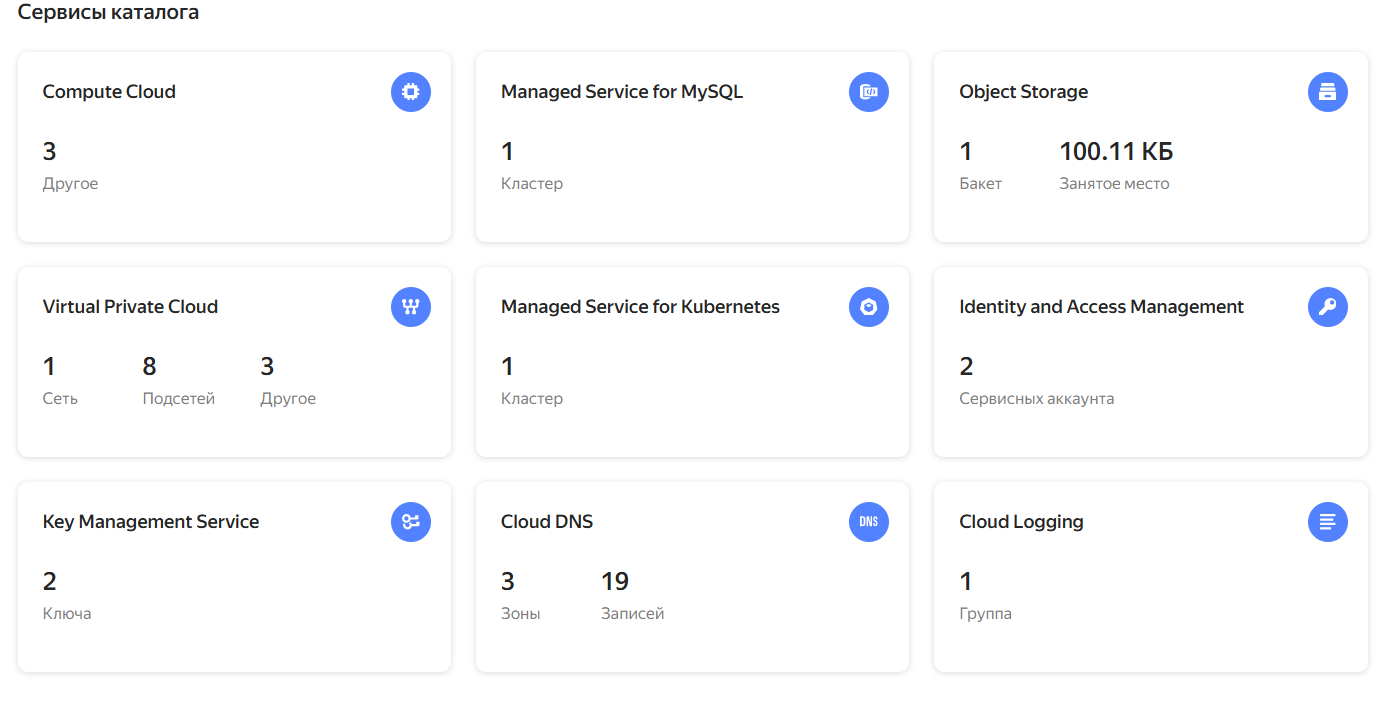
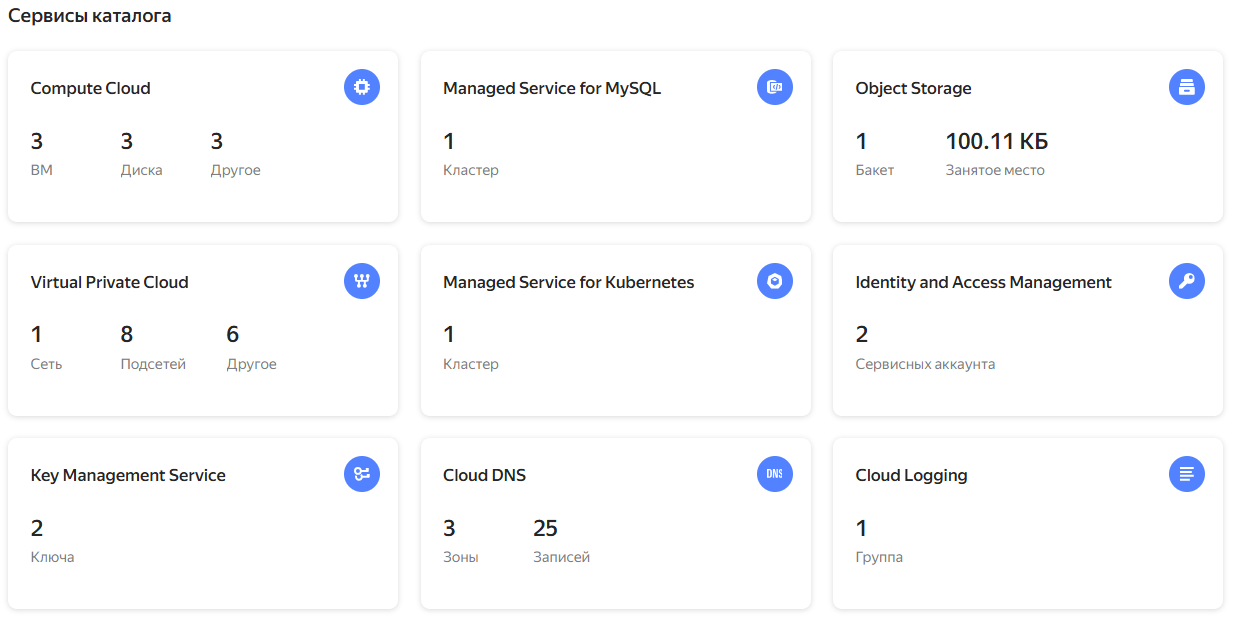
дополнение описания 8-cloudproviders-4-cluster

diff --git a/8-cloudproviders-4-cluster/readme.md b/8-cloudproviders-4-cluster/readme.md
@@ -67,7 +67,17 @@ __Результаты:__
           
           - сам кластер [`regional_cluster`](terraform/main.tf#L214) с именем `k8s-regional-cluster` с 3-мя мастерами во всех зонах доступности в подсетях `public`
 
-          - 3 группы узлов [`node_group`](terraform/main.tf#L260) в каждой зоне доступности с 1 узлом и динамическим масштабированием до 2-х узлов в каждой группе
+          - 3 группы узлов [`node_group`](terraform/main.tf#L261) в каждой зоне доступности с 1 узлом и динамическим масштабированием до 2-х узлов в каждой группе
+
+      4. Настройка kubectl
+
+          - создание конфигурационного файла [`kubeconfig`](terraform/main.tf#L315) с именем `kubeconfig.yaml` на основе шаблона [kubernetes/kubeconfig.tpl](kubernetes/kubeconfig.tpl)
+
+      5. Сервис _phpmyadmin_
+
+          - deployment - структура приложения [`phpmyadmin`](terraform/main.tf#L333)
+
+          - сервис приложения [`phpmyadmin`](terraform/main.tf#L381) типа `"LoadBalancer"`
 
 
 
@@ -108,7 +118,25 @@ __Результаты:__
     ![Созданные группы узлов](images/k8s-node-groups-01.png)
 
 
+3. Подключение к Kubernetes-кластеру
 
+    1. Добавление контекста нового кластера
+
+        ```
+        yc managed-kubernetes cluster get-credentials --name k8s-regional-cluster --internal
+        ```
+    
+    2. Просмотр доступных контекстов и выбор контекста по умолчанию
+
+        ```
+        kubectl config get-contexts
+        kubectl config use-context yc-k8s-regional-cluster
+        ```
+
+        ![Доступные контексты кластера](images/kunectl-context-01.png)
+
+
+      
 
 
 ------
